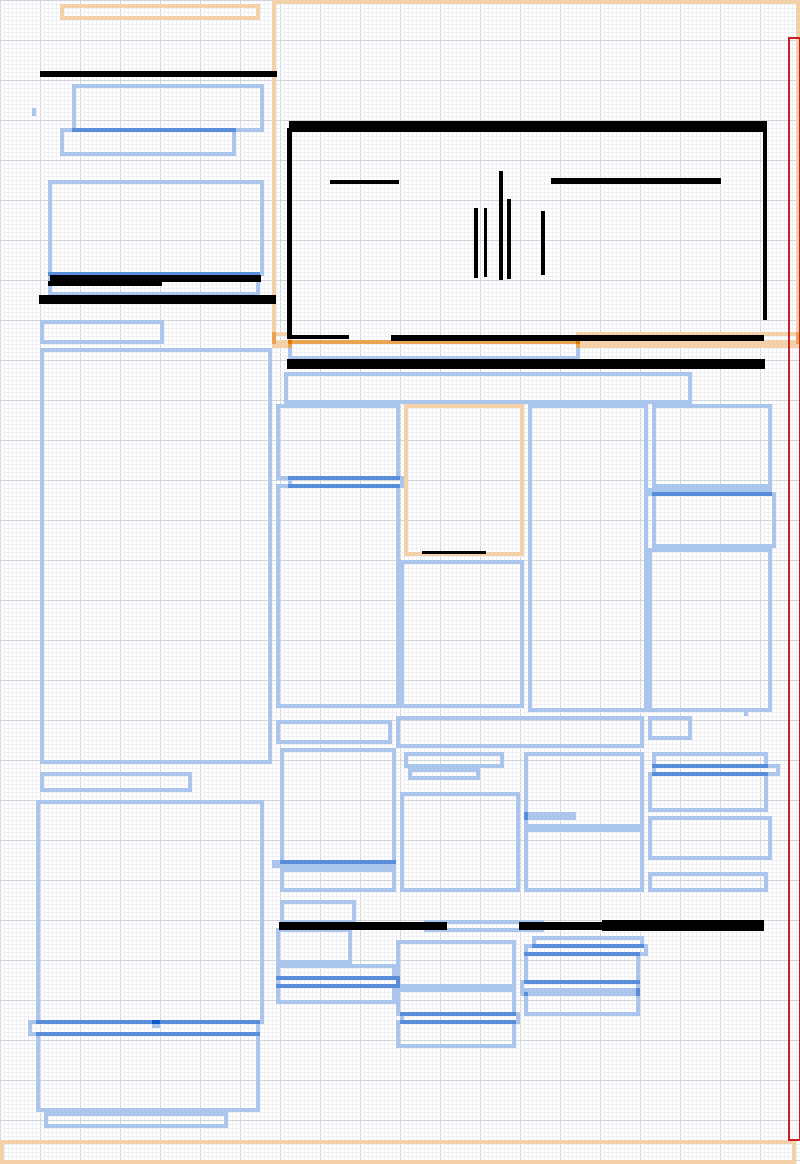
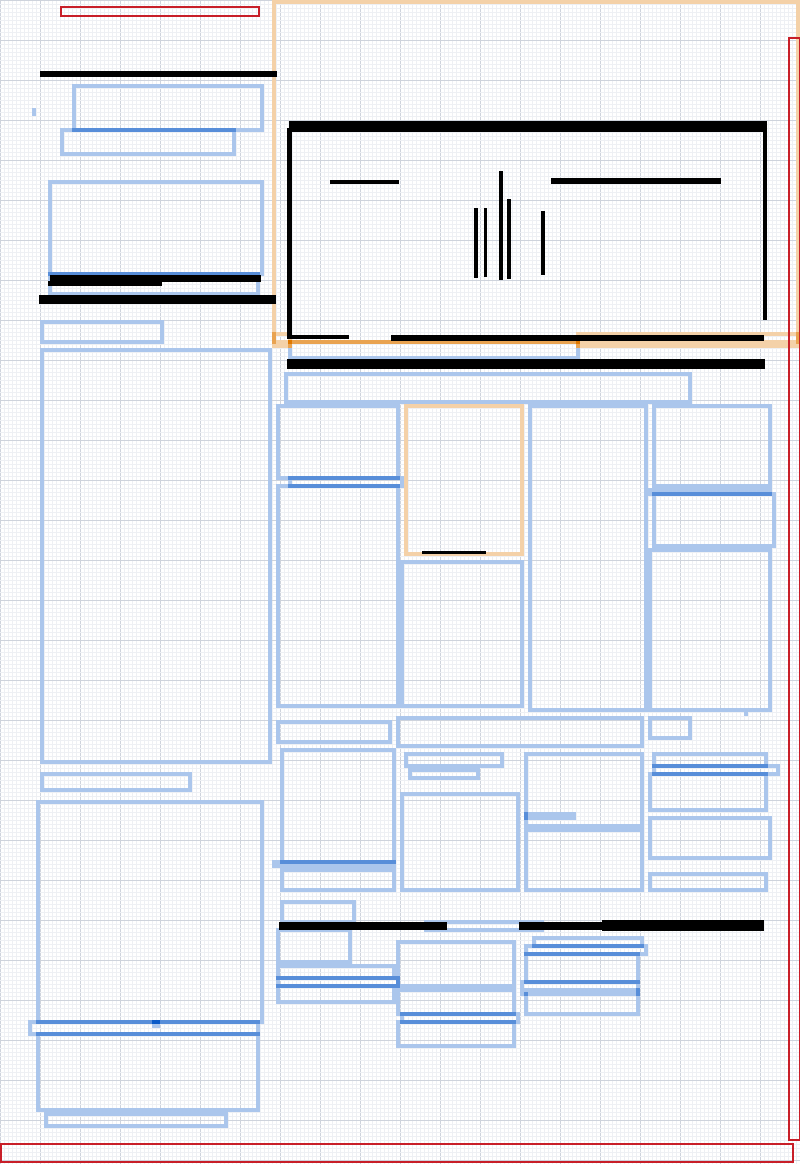
sliver_pass: photos that size as slivers go through the same rules
A photo is admitted as a candidate only if it fails the same THIN_CELLS
test the separators use, so there is ONE size rule rather than a separate
argument per type. A photo wide enough to be a picture never enters the
pass: 568 are classified "not a sliver" and kept untouched.

Why it was needed: the binding shadow comes back as an ocr_photo at least
as often as a separator. 1980-04-06 p4 carried two full-height strips --
x 0.00-2.34 spanning y 0.75-81.56 and x 96.32-100.00 spanning y
56.44-99.23 -- which the separator-only pass left standing, visible as
orange strips down both edges of the render.

Both are now removed at tier 2, each with ALIGN 0: nothing on the page
corroborates them. The three real photos on that page are kept, two as
"not a sliver" and one on alignment.

MEASURED, 90 pages: 537 removed, 419 separators + 118 photos. Separator
verdicts are UNCHANGED at 419, so admitting photos as candidates did not
disturb them -- rim slivers were already excluded from corroboration, so
the photo shadows were never vouching for anything. Removals lying wholly
inside the content area: 30 of 537 (5.6%), against 4.3% for separators
alone and 31.6% for the thin-and-near-an-edge test both replace.

BUG FOUND AND FIXED IN THE RENDER, not the pass. block_grid matches
sliver_pass's verdicts back onto its own query by geometry, and the key
covered separators only. So once photos became candidates their verdicts
[…]

Changed region(s): [[0.0, 0.9588, 1.0, 1.0], [0.0625, 0.0, 0.3438, 0.0309]]

diff --git a/transcribe/scaled/experiments/sliver_pass.py b/transcribe/scaled/experiments/sliver_pass.py
@@ -1,8 +1,13 @@
-"""EXPERIMENT — first pass: eliminate SLIVER separators at the page rim.
+"""EXPERIMENT — first pass: eliminate SLIVERS at the page rim.
 
-Separators only. Photos and blocks are read as evidence but never removed
-here; a block with words is real type, and a photo needs a different
-argument.
+Separators, and photos that SIZE as slivers -- the binding shadow comes
+back as an `ocr_photo` at least as often as a separator (1980-04-06 p4:
+x 0.00-2.34 spanning y 0.75-81.56, a full-height strip down the binding).
+A photo big enough to be a picture is never a candidate: it fails the same
+THIN_CELLS test the separators use, so one size rule covers both.
+
+Blocks are read as evidence but never removed: a block with words is real
+type.
 
 THE PROBLEM THIS SOLVES
 -----------------------
@@ -146,7 +151,12 @@ def classify(conn, page_id):
 
     out = []
     for s in items:
-        if s["kind"] != "ocr_separator":
+        # Separators, and PHOTOS THAT SIZE AS SLIVERS. A photo wide enough
+        # to be a picture is never a candidate -- it falls out below as
+        # "not a sliver" on the same THIN_CELLS test the separators use, so
+        # there is one size rule, not two. Blocks are never candidates: a
+        # block with words is real type.
+        if s["kind"] not in ("ocr_separator", "ocr_photo"):
             continue
         w, h = (s["R"] - s["L"]) / cw, (s["B"] - s["T"]) / chh
         vertical = h >= w

diff --git a/transcribe/scaled/experiments/block_grid.py b/transcribe/scaled/experiments/block_grid.py
@@ -71,15 +71,22 @@ def _perimeter_cells(i, cw, chh, n_cols, n_rows):
 
 
 def _sliver_items(every, verdicts):
-    """`every` re-keyed to the objects sliver_pass judged, so identity
-    comparison works across the two module's separate queries."""
+    """`every` re-keyed to the objects sliver_pass judged.
+
+    Keyed on geometry, because the two modules run their own queries and
+    the dicts are not the same objects. EVERY kind is re-keyed: an earlier
+    version did separators only, so once photos became candidates their
+    verdicts never reached the render and the shadow strips stayed drawn.
+    """
     by_key = {(round(r["sep"]["L"], 4), round(r["sep"]["T"], 4),
-               round(r["sep"]["R"], 4), round(r["sep"]["B"], 4)): r["sep"]
+               round(r["sep"]["R"], 4), round(r["sep"]["B"], 4),
+               r["sep"]["kind"]): r["sep"]
               for r in verdicts}
     out = []
     for i in every:
-        k = (round(i["L"], 4), round(i["T"], 4), round(i["R"], 4), round(i["B"], 4))
-        out.append(by_key.get(k, i) if i["kind"] == "ocr_separator" else i)
+        k = (round(i["L"], 4), round(i["T"], 4),
+             round(i["R"], 4), round(i["B"], 4), i["kind"])
+        out.append(by_key.get(k, i))
     return out
 
 
